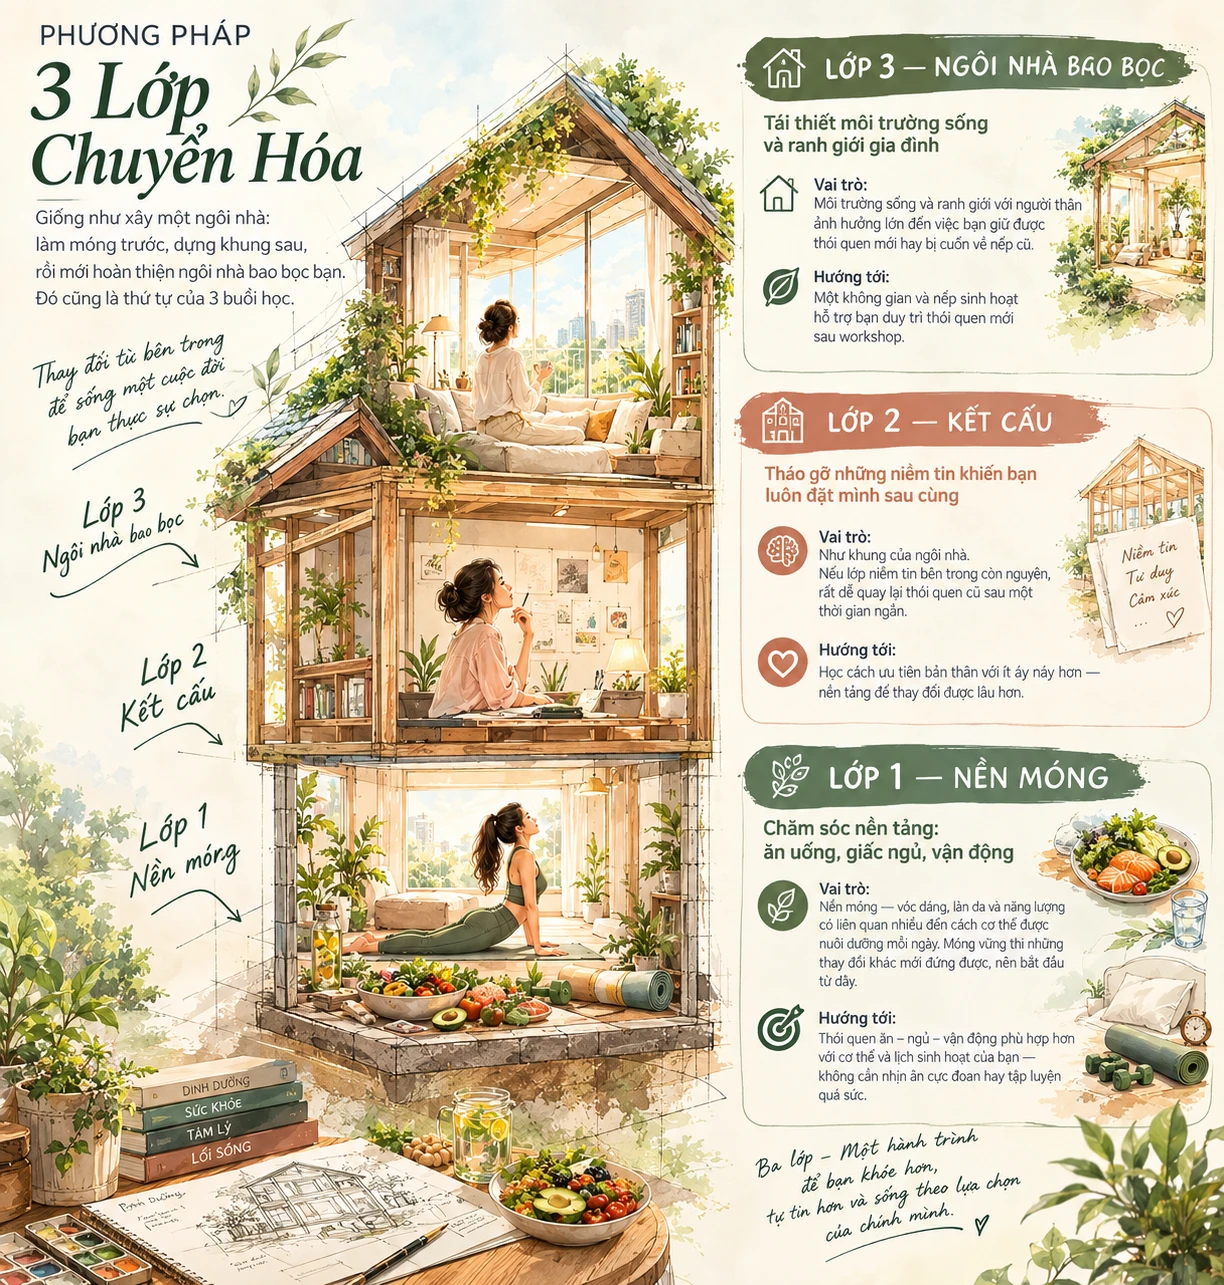
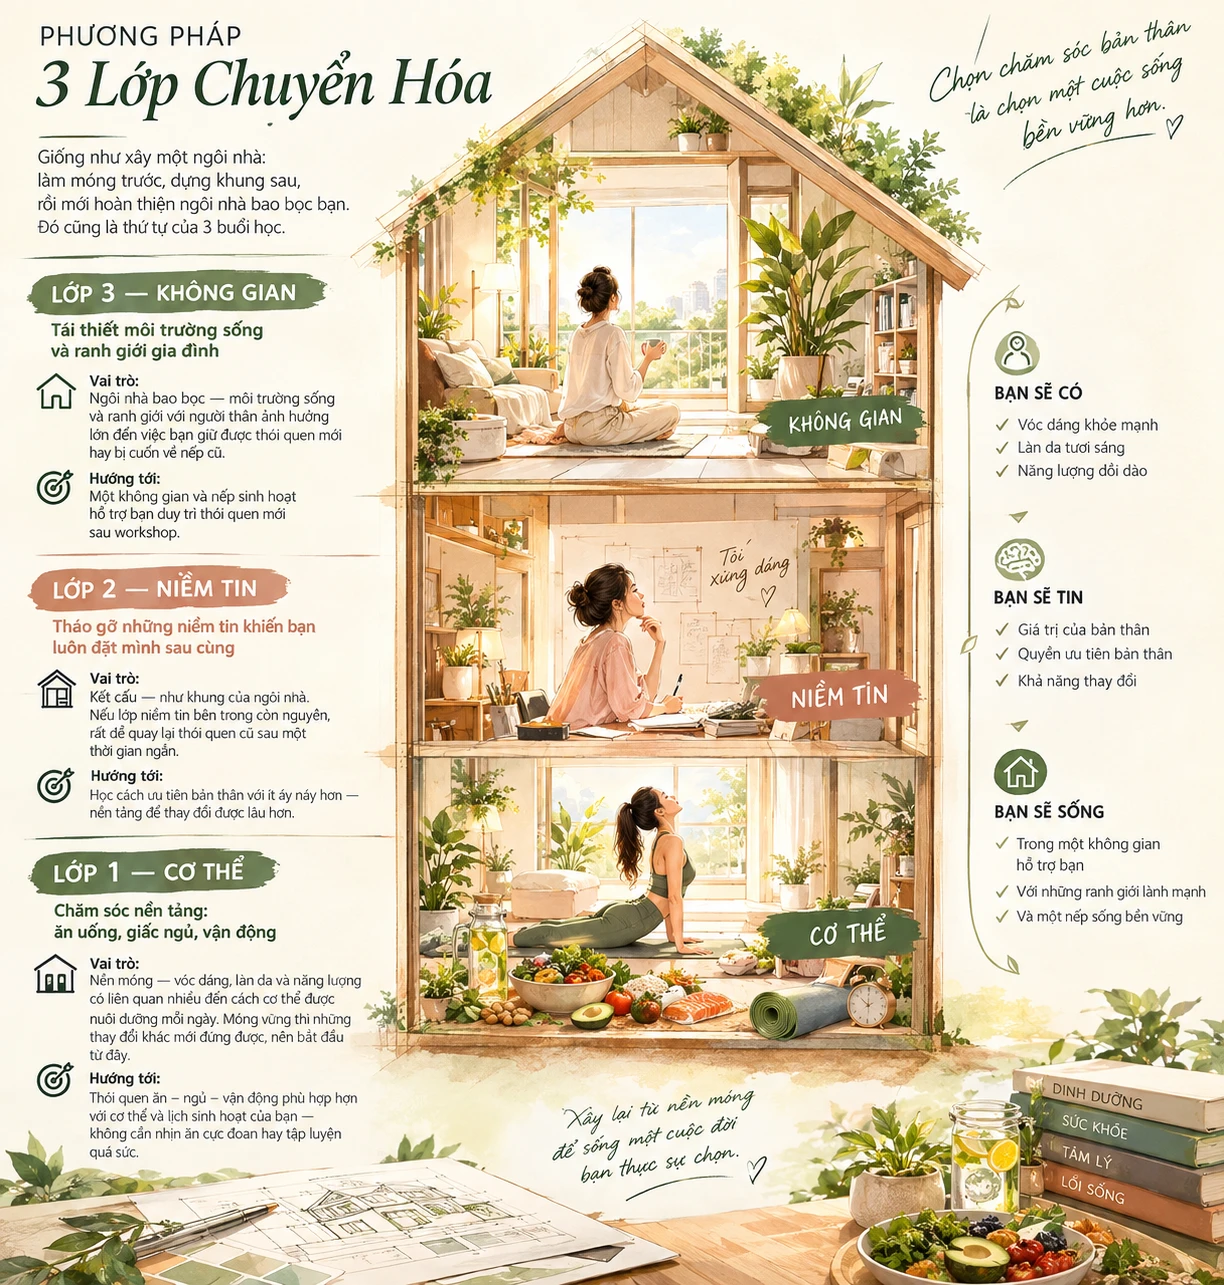
Landing: replace method infographic with version using matching layer names

diff --git a/index.html b/index.html
@@ -161,7 +161,7 @@
         <p style="font-size: 14.5px; line-height: 1.65; color: #5A4B44; font-style: italic; margin-top: 4px;">Giống như xây một ngôi nhà: làm móng trước, dựng khung sau, rồi mới hoàn thiện ngôi nhà bao bọc bạn. Đó cũng là thứ tự của 3 buổi học.</p>
       </div>
 
-      <img src="assets/phuong-phap-3-lop.webp" alt="Phương pháp 3 Lớp Chuyển Hóa: Lớp 1 Nền móng, Lớp 2 Kết cấu, Lớp 3 Ngôi nhà bao bọc" loading="lazy" style="display: block; width: 100%; height: auto; border-radius: 16px;">
+      <img src="assets/phuong-phap-3-lop.webp" alt="Phương pháp 3 Lớp Chuyển Hóa: Lớp 1 Cơ Thể, Lớp 2 Niềm Tin, Lớp 3 Không Gian" loading="lazy" style="display: block; width: 100%; height: auto; border-radius: 16px;">
 
       <div style="display: flex; flex-direction: column; gap: 16px;">
         <div style="background: #FAF3EC; border-radius: 16px; padding: 24px;">
